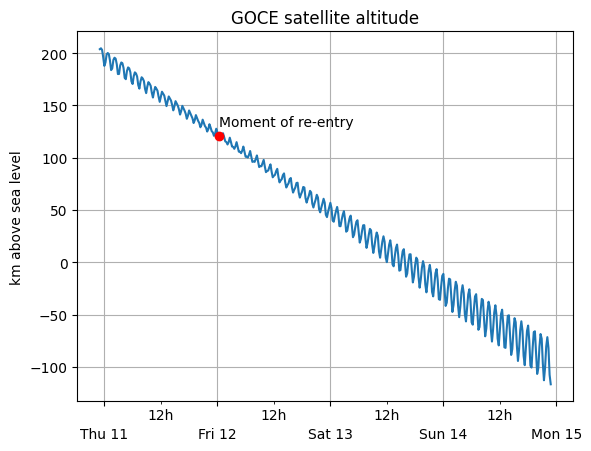
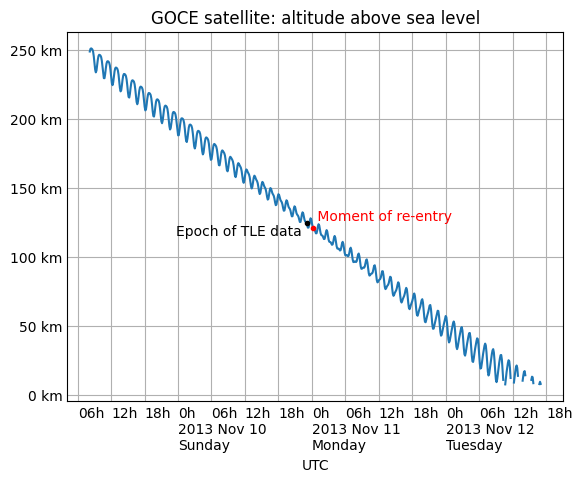
Fix #493 by reworking GOCE reentry plot
* Move the plot into its own Python file for faster iteration.
* Switch the x-axis from ordinal dates to datetime objects, to dodge a
  breaking change in matplotlib: its default epoch for floating point
  days moved from the year AD 1 to the year AD 1970.
* Upgrade Pandas to 1.0.0 to avoid:
  https://github.com/matplotlib/matplotlib/issues/12310
  https://github.com/pandas-dev/pandas/issues/22859
* Switch to relying on `message` to determine if SGP4 failed.
* Spruce up the axis labelling, just for fun.
* Use the same plot in both places it’s discussed in the docs.

diff --git a/examples/goce_reentry_chart.py b/examples/goce_reentry_chart.py
@@ -1,0 +1,71 @@
+import numpy as np
+from matplotlib import pyplot as plt
+from matplotlib.dates import HourLocator, DateFormatter
+
+from skyfield.api import load, EarthSatellite
+
+# Labels for both date and hour on the x axis, and km on y.
+
+def label_dates_and_hours(axes):
+    axes.xaxis.set_major_locator(HourLocator([0]))
+    axes.xaxis.set_minor_locator(HourLocator([0, 6, 12, 18]))
+    axes.xaxis.set_major_formatter(DateFormatter('0h\n%Y %b %d\n%A'))
+    axes.xaxis.set_minor_formatter(DateFormatter('%Hh'))
+    for label in ax.xaxis.get_ticklabels(which='both'):
+        label.set_horizontalalignment('left')
+    axes.yaxis.set_major_formatter('{x:.0f} km')
+    axes.tick_params(which='both', length=0)
+
+# Load the satellite's final TLE entry.
+
+sat = EarthSatellite(
+    '1 34602U 09013A   13314.96046236  .14220718  20669-5  50412-4 0   930',
+    '2 34602 096.5717 344.5256 0009826 296.2811 064.0942 16.58673376272979',
+    'GOCE',
+)
+
+# Build the time range `t` over which to plot, plus other values.
+
+ts = load.timescale()
+t = ts.tt_jd(np.arange(sat.epoch.tt - 2.0, sat.epoch.tt + 2.0, 0.005))
+reentry = ts.utc(2013, 11, 11, 0, 16)
+earth_radius_km = 6371.0
+
+# Compute geocentric positions for the satellite.
+
+g = sat.at(t)
+valid = [m is None for m in g.message]
+
+# Start a new figure.
+
+fig, ax = plt.subplots()
+
+# Draw the blue curve.
+
+x = t.utc_datetime()
+y = np.where(valid, g.distance().km - earth_radius_km, np.nan)
+ax.plot(x, y)
+
+# Label the TLE epoch.
+
+x = sat.epoch.utc_datetime()
+y = sat.at(sat.epoch).distance().km - earth_radius_km
+ax.plot(x, y, 'k.')
+ax.text(x, y - 9, 'Epoch of TLE data ', ha='right')
+
+# Label the official moment of reentry.
+
+x = reentry.utc_datetime()
+y = sat.at(reentry).distance().km - earth_radius_km
+ax.plot(x, y, 'r.')
+ax.text(x, y + 6, ' Moment of re-entry', c='r')
+
+# Grid lines and labels.
+
+ax.grid(which='both')
+ax.set(title='GOCE satellite: altitude above sea level', xlabel='UTC')
+label_dates_and_hours(ax)
+
+# Render the plot to a PNG file.
+
+fig.savefig('goce-reentry.png', bbox_inches='tight')

diff --git a/skyfield/documentation/example-plots.rst b/skyfield/documentation/example-plots.rst
@@ -75,62 +75,12 @@ The code to produce the diagram using `matplotlib`_,
 including custom tick marks that are based on the date,
 is:
 
-.. testcode::
+.. testsetup::
 
-    from matplotlib import pyplot as plt
-    from matplotlib.dates import HourLocator, DateFormatter
+    import goce_reentry_chart
 
-    from numpy import arange
-
-    def label_dates_and_hours(axes):
-        axes.xaxis.set_major_locator(HourLocator([0]))
-        axes.xaxis.set_minor_locator(HourLocator([0, 12]))
-        axes.xaxis.set_major_formatter(DateFormatter('\n%a %d'))
-        axes.xaxis.set_minor_formatter(DateFormatter('%Hh'))
-
-    from skyfield.api import load, EarthSatellite
-
-    # Load the satellite's final TLE entry.
-
-    sat = EarthSatellite(
-        '1 34602U 09013A   13314.96046236  .14220718  20669-5  50412-4 0   930',
-        '2 34602 096.5717 344.5256 0009826 296.2811 064.0942 16.58673376272979',
-        'GOCE',
-    )
-
-    # Build the time range `t` over which to plot, plus other values.
-
-    ts = load.timescale()
-    t = ts.tt_jd(arange(sat.epoch.tt - 1.0, sat.epoch.tt + 3.0, 0.01))
-    reentry = ts.utc(2013, 11, 11, 0, 16)
-    earth_radius_km = 6371.
-
-    # Start a new figure.
-
-    fig, ax = plt.subplots()
-
-    # Draw the blue curve.
-
-    x = t.toordinal()
-    y = sat.at(t).distance().km - earth_radius_km
-    ax.plot(x, y)
-
-    # Label the official moment of reentry.
-
-    x = reentry.toordinal()
-    y = sat.at(reentry).distance().km - earth_radius_km
-    ax.plot(x, y, 'ro')
-    ax.text(x, y + 10, 'Moment of re-entry')
-
-    # Grid lines and labels.
-
-    label_dates_and_hours(ax)
-    ax.grid()
-    ax.set(title='GOCE satellite altitude', ylabel='km above sea level')
-
-    # Render the plot to a PNG file.
-
-    fig.savefig('goce-reentry.png', bbox_inches='tight')
+.. include:: ../../examples/goce_reentry_chart.py
+   :literal:
 
 .. testcleanup::
 

diff --git a/skyfield/documentation/earth-satellites.rst b/skyfield/documentation/earth-satellites.rst
@@ -687,18 +687,18 @@ At that point, the satellite will return a position and velocity
 are the special floating-point value ``nan`` which means *not-a-number*.
 
 When a propagation error occurs and you get ``nan`` values,
-you can examine the ``sgp4_error`` attribute of the returned position
+you can examine the ``message`` attribute of the returned position
 to learn the error that the SGP4 propagator encountered.
 
 We can take as an example the satellite elements above.
 They are the last elements ever issued for GOCE,
-about one day before the satellite re-entered the atmosphere
+just before the satellite re-entered the atmosphere
 after an extended and successful mission.
 Because of the steep decay of its orbit,
 the elements are valid over an unusually short period —
 from just before noon on Saturday to just past noon on Tuesday:
 
-.. image:: _static/goce-decay.png
+.. image:: _static/goce-reentry.png
 
 By asking for GOCE’s position just before or after this window,
 we can learn about the propagation errors
@@ -727,7 +727,7 @@ that are limiting this TLE set’s predictions:
     mrt is less than 1.0 which indicates the satellite has decayed
 
 If you use a ``Time`` array to ask about an entire range of dates,
-then ``sgp4_error`` will be a sequence filled in with ``None``
+then ``message`` will be a sequence filled in with ``None``
 whenever the SGP4 propagator was successful
 and otherwise recording the propagator error:
 
